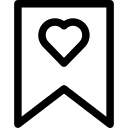
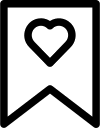
there are big ploblems

diff --git a/js/searchPage.js b/js/searchPage.js
@@ -34,9 +34,11 @@ const showMovies = (movies) => {
     type.textContent = obj.Type
     img.setAttribute('src', obj.Poster)
     
-    if (getData().favorites.includes(obj.imdbID)){
-      favorite.classList.add('added')      
-    }
+    getData().favorites.forEach((v)=> {
+      if(v.imdbID === obj.imdbID){
+        favorite.classList.add('added')
+      }
+    })
     favorite.classList.add('movie-container__favorite')
     container.classList.add('movie-container')
     imgContainer.classList.add('movie-container__img-container')
@@ -89,7 +91,7 @@ const toggleFavorite = (imdbID) => {
   
   const favToSave = {
     imdbID: movie.id,
-    outerHTML: movie.outerHTML
+    innerHTML: movie.innerHTML
   }
   
   data.favorites.forEach((value, index)=> {
@@ -236,4 +238,35 @@ const showExtendedInfoMovies = (data) => {
   modalContent.textContent = ''
   fragment.appendChild(ratings)
   modalContent.appendChild(fragment)  
+}
+
+//Modal favorites
+const menu = document.getElementById('menu')
+const modalFavorites = document.getElementById('modal-favorites')
+const modalFavoritesContent = document.getElementById('modal-favorites-content')
+
+menu.addEventListener('click', e => {
+  if(e.target.id === "favorites-menu") {
+    showFavorites()
+    modalFavorites.classList.add('show')
+  } 
+})
+
+modalFavorites.addEventListener('click', (e)=> {
+  if(e.target === modalFavorites){
+    modalFavorites.classList.remove('show')
+  }
+})
+
+const showFavorites = () => {
+  modalFavoritesContent.textContent = ''
+  const data = getData()
+  const fragment = document.createDocumentFragment()
+  data.favorites.forEach((v, i)=> {
+    const container = document.createElement('div')
+    container.classList.add('movie-container')
+    container.innerHTML = v.innerHTML
+    fragment.appendChild(container)
+  })
+  modalFavoritesContent.appendChild(fragment)
 }

diff --git a/imdbfinder.html b/imdbfinder.html
@@ -8,32 +8,40 @@
     <title>Movie Finder</title>
   </head>
   <body>
-    <div class="menu">
-      <p class="favorites-container" id="favorites-menu">
-        Favorites
-      </p>
-      <p class="logout" id="logout">
-        Logout
-      </p>
-    </div>
-    <h1 class="title">
-      ¡Type a movie to search for!
-    </h1>
-    <form class="form" id="search-form">
-      <input type="text" name="searchField" class="form__input" />
-      <input
-        type="submit"
-        value="search"
-        name="searchBtn"
-        class="form__button"
-      />
-    </form>
+    <header class="header">
+      <h1 class="title">
+        ¡Type a movie to search for!
+      </h1>
+      <nav>
+        <ul class="menu" id="menu">
+          <li class="favorites-container" id="favorites-menu">Favorites</li>
+          <li class="logout" id="logout">Logout</li>
+        </ul>
+      </nav>
+    </header>
 
-    <div class="results" id="results"></div>
+    <main>
+      
+      <form class="form" id="search-form">
+        <p>¡Type a movie to search for!</p>
+        <input type="text" name="searchField" class="form__input" />
+        <input
+          type="submit"
+          value="search"
+          name="searchBtn"
+          class="form__button"
+        />
+      </form>
 
-    <div class="modal" id="modal-info">
-      <div class="modal__content" id="modal-info-content"></div>
-    </div>
+      <div class="results" id="results"></div>
+
+      <div class="modal" id="modal">
+        <!-- <div class="modal__content" id="modal-info-content"></div> -->
+      </div>
+      <!-- <div class="modal" id="modal-favorites">
+        <div class="modal__content results" id="modal-favorites-content"></div>
+      </div> -->
+    </main>
 
     <script src="./js/searchPage.js"></script>
   </body>

diff --git a/css/searchStyles.css b/css/searchStyles.css
@@ -30,6 +30,7 @@ body {
 .form__input {
   height: 40px;
   width: 400px;
+  padding-left: 10px;
   font-size: 1em;
   border: none;
   border-radius: var(--radius);
@@ -114,11 +115,11 @@ body {
   right: 0;
   width: 30px;
   height: 40px;
-  background-image: url(../assets/favourite5.png);
+  background-image: url(../assets/favourite4.png);
   background-size: contain;
   background-repeat: no-repeat;
 }
 
 .added {
-  background-image: url(../assets/favourite\(2\).png);
+  background-image: url(../assets/favouriteselected.png);
 }

diff --git a/css/modalStyles.css b/css/modalStyles.css
@@ -11,7 +11,7 @@
   align-items: center;
   flex-direction: column;
   transform: scale(0);
-  transition: transform .3;
+  transition: transform .3s;
 }
 
 .show {
